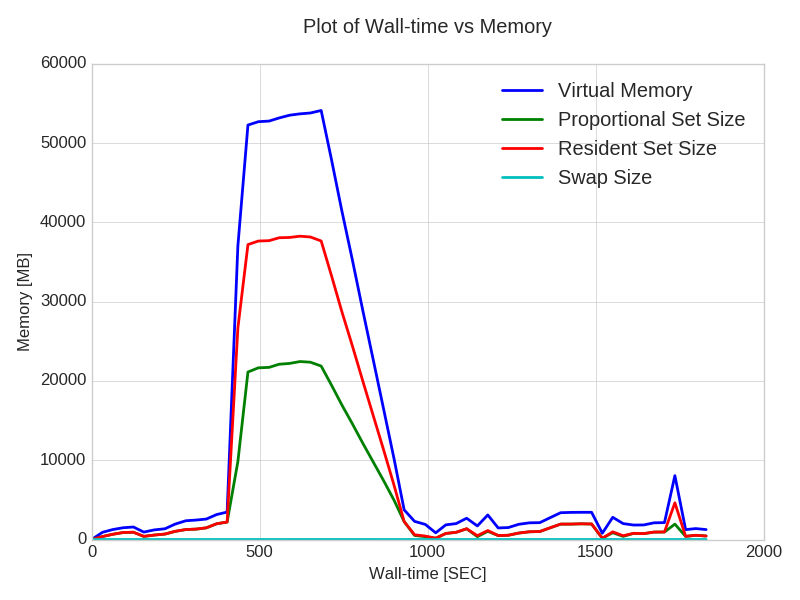
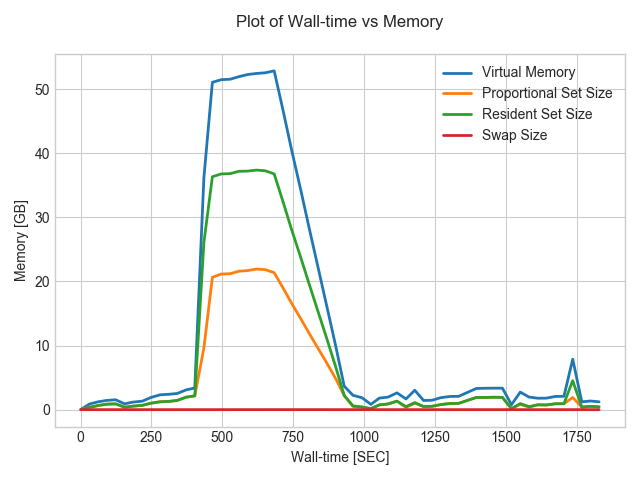
Update the README plots

diff --git a/README.md b/README.md
@@ -123,13 +123,13 @@ timestamped output file (usually `prmon.txt`). Some examples include:
 
 * Memory usage as a function of wall-time:
 ```sh
-prmon_plot.py --input prmon.txt --xvar wtime --yvar vmem,pss,rss,swap
+prmon_plot.py --input prmon.txt --xvar wtime --yvar vmem,pss,rss,swap --yunit GB
 ```
 ![](example-plots/PrMon_wtime_vs_vmem_pss_rss_swap.png)
 
 * Rate of change in memory usage as a function of wall-time:
 ```sh
-prmon_plot.py --input prmon.txt --xvar wtime --yvar vmem,pss,rss,swap --diff
+prmon_plot.py --input prmon.txt --xvar wtime --yvar vmem,pss,rss,swap --diff --yunit MB
 ```
 ![](example-plots/PrMon_wtime_vs_diff_vmem_pss_rss_swap.png)
 
